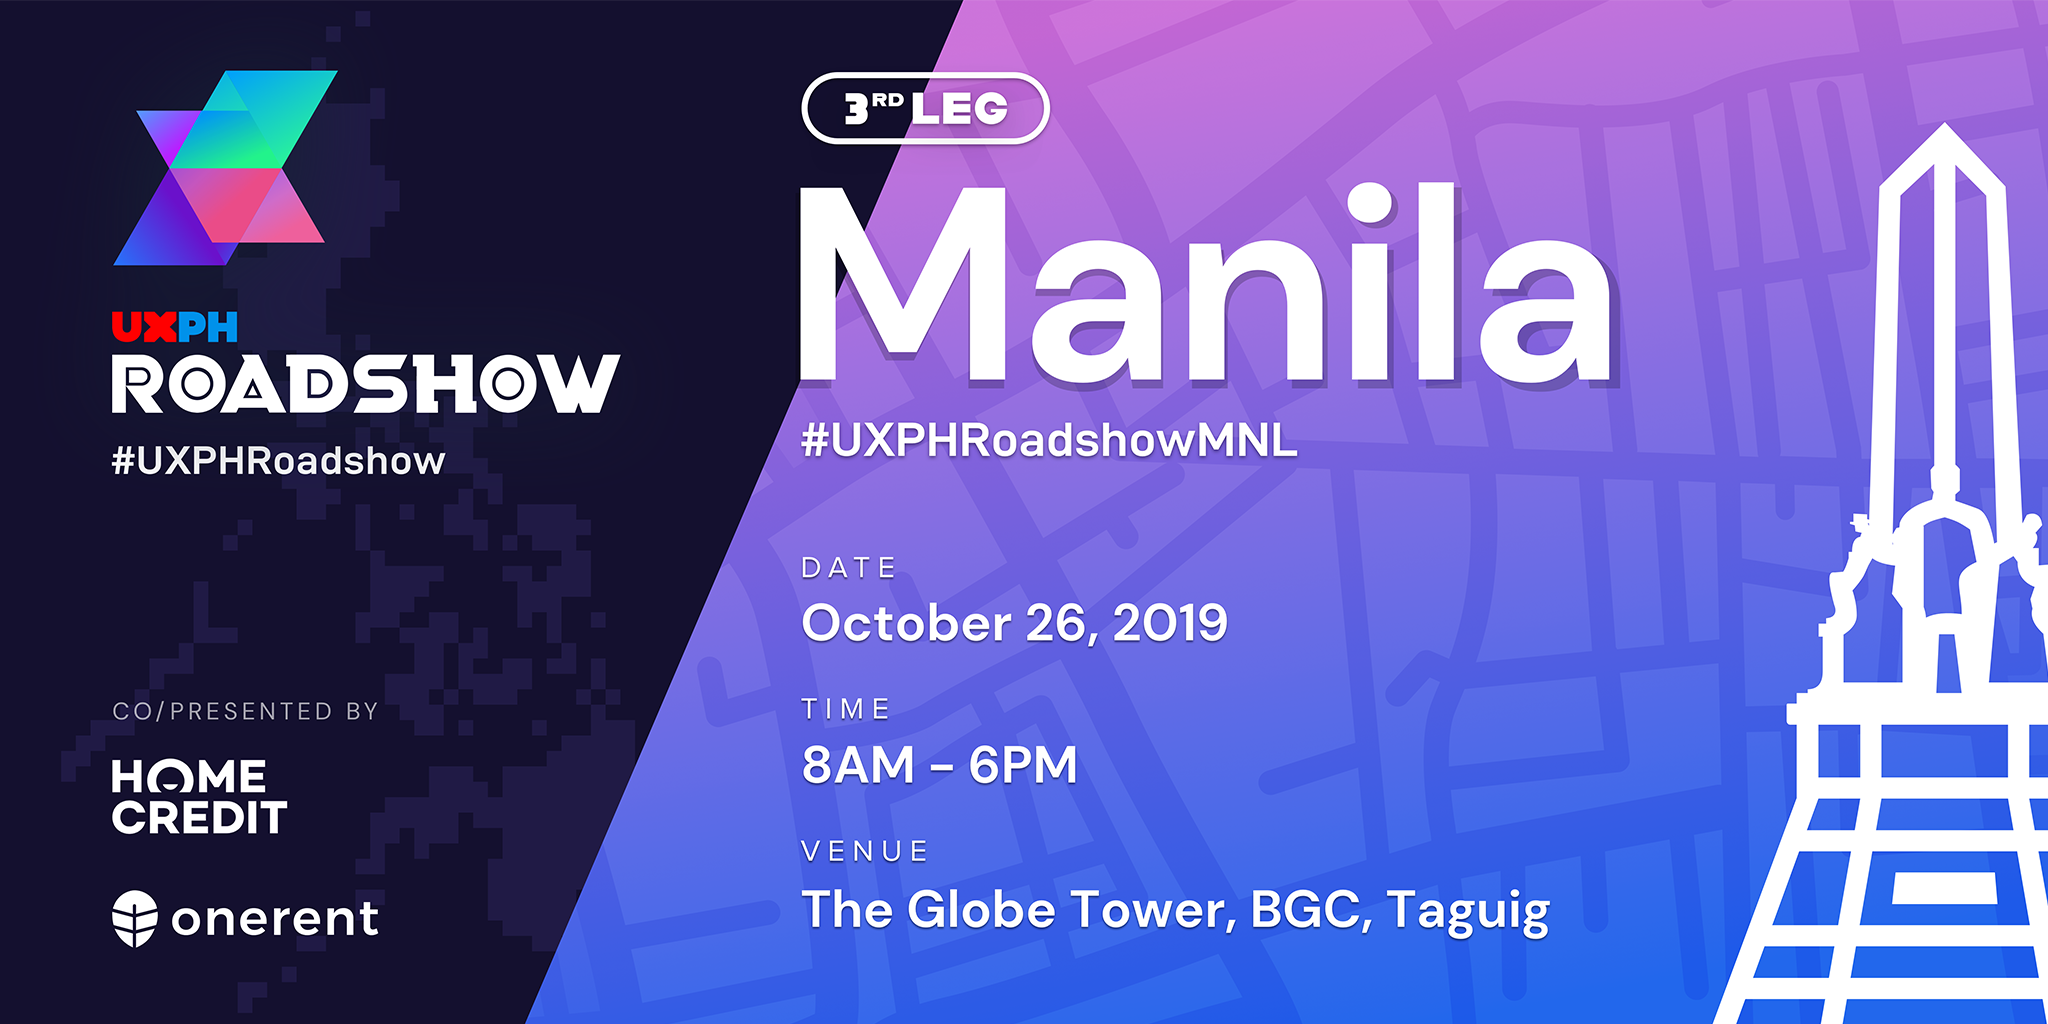
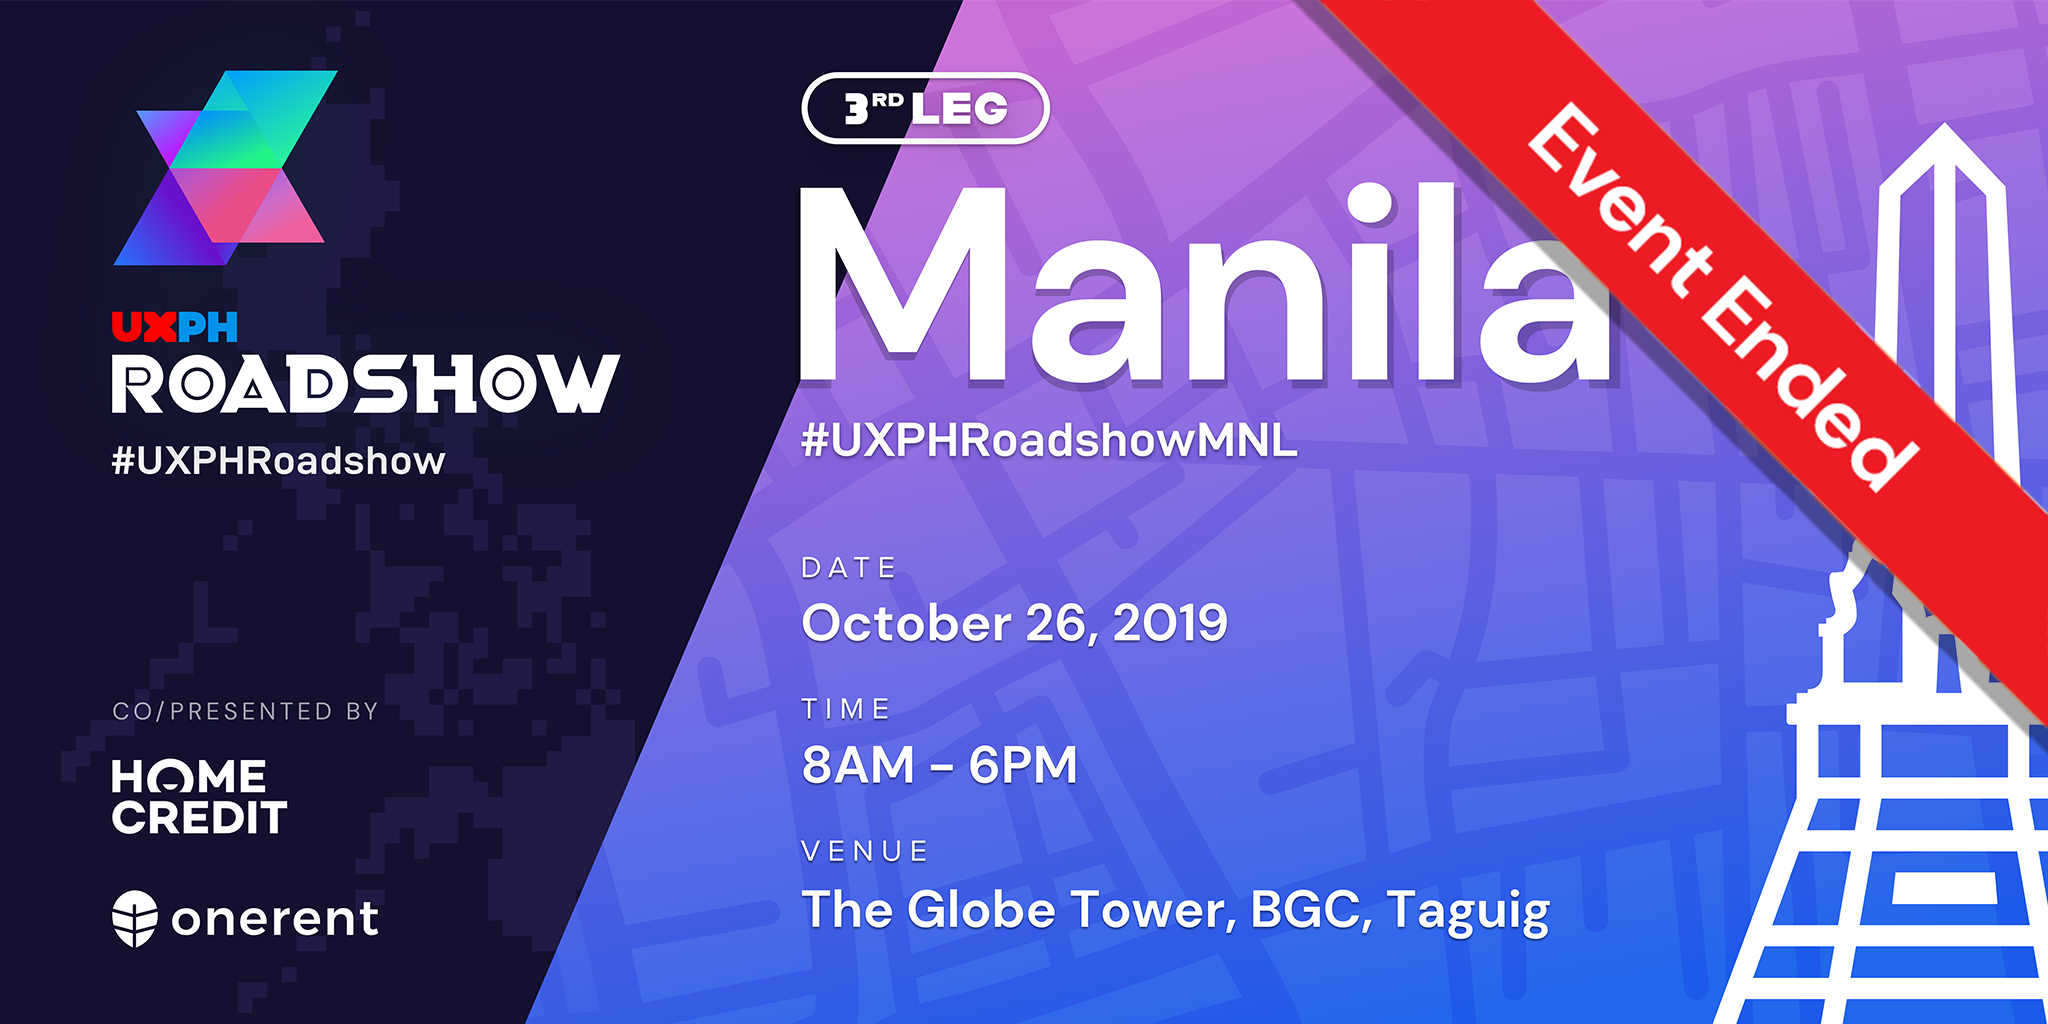
Manila event ended

Changed region(s): [[0.625, 0.0, 1.0, 0.7188]]

diff --git a/layouts/index.html b/layouts/index.html
@@ -42,15 +42,7 @@
 						<div class="city-card">
 							<img src="assets/event-images/mnl-card.png" class="featured-image" />
 							<div class="details">
-								<button class="first-button">
-									<a href="https://www.eventbrite.com/e/uxph-national-roadshow-2019-manila-tickets-72237090081" target="_blank">
-										Buy Tickets
-									</a>
-								</button>
-								
-								<button class="hollow second-button">
-									<a href="/manila/">See Event Details</a>
-								</button>
+								<button class="hollow"><a href="/manila">See Event Details</a></button>
 							</div>
 						</div>
 					</a>

diff --git a/layouts/partials/pages/manila.html b/layouts/partials/pages/manila.html
@@ -43,9 +43,6 @@
 				<br />
 				<i class="fa fa-map-marker-alt"></i>The Globe Tower, BGC, Taguig
 			</p>
-			<a href="https://www.eventbrite.com/e/uxph-national-roadshow-2019-manila-tickets-72237090081" target="_blank">
-				<button>Buy Tickets</button>
-			</a>
 		</div>
 	</div>
 </section>
